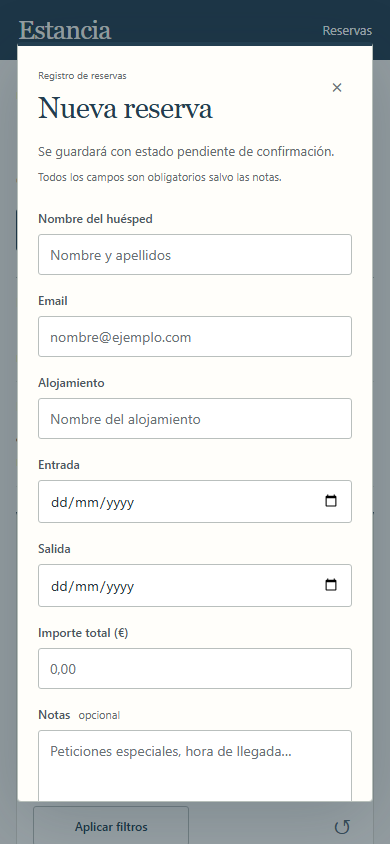
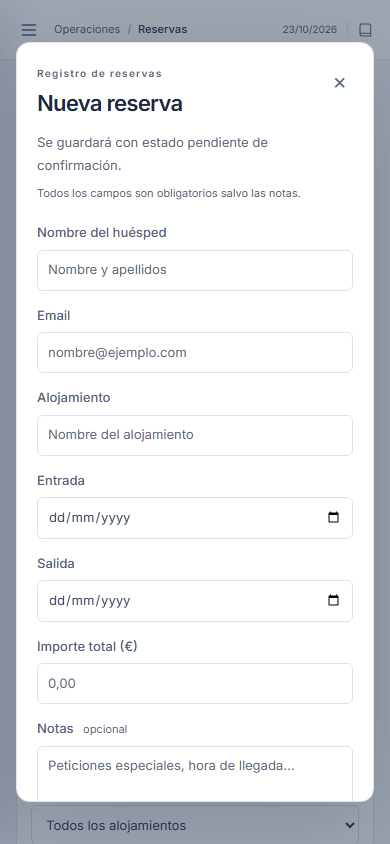
docs: document manager operations, upgrade migration and UI verification [skip ci]

diff --git a/README.md b/README.md
@@ -2,7 +2,7 @@
 
 Aplicación de reservas de alojamiento para la prueba técnica de MisterPlan. PHP nativo, MySQL/MariaDB, Twig y JavaScript vanilla. Interfaz en español, renderizado inicial en servidor y operaciones asíncronas sobre una API JSON.
 
-La interfaz sigue el criterio de un registro de recepción: resumen compacto, tabla de datos, estados discretos y acciones explícitas. Utiliza tipografías del sistema y Georgia, sin fuentes remotas ni recursos externos.
+El espacio de trabajo incluye navegación lateral, indicadores operativos, agenda, tabla con selección múltiple y una vista rápida lateral. Utiliza la fuente Inter alojada en el propio proyecto, con su licencia en `docs/fonts/`, e iconos SVG. La aplicación no solicita fuentes ni recursos a servicios externos.
 
 **Repositorio:** [guiller91/Proyecto-Dani](https://github.com/guiller91/Proyecto-Dani)
 
@@ -31,6 +31,8 @@ docker compose start
 ```
 
 No borres el volumen si necesitas conservar reservas. Cambiar las contraseñas del `.env` no cambia las de una base de datos ya inicializada.
+
+**Actualizar una instalación existente:** esta versión añade el evento `actualizada` para registrar ediciones. Ejecutar `php bin/migrate.php` con una credencial de migración que tenga permiso `ALTER`, o importar `database/migrations/002_reserva_actualizada.sql`. No reimportar el fichero inicial ni borrar el volumen. En Docker, el comando es `docker compose exec app php bin/migrate.php` si el usuario dispone de ese permiso. El migrador detecta una base ya actualizada y no modifica las reservas. La aplicación sigue necesitando solo `SELECT`, `INSERT` y `UPDATE` durante su funcionamiento.
 
 ## Arranque local con PHP, MAMP o WAMP
 
@@ -78,6 +80,13 @@ Después de importar, el usuario de ejecución solo necesita `SELECT`, `INSERT` 
 ## Qué incluye
 
 - Listado paginado con filtros combinables por estado, coincidencia de estancia y nombre del huésped.
+- Filtro por alojamiento, fechas exactas de llegada/salida y ordenación por entrada, salida, huésped o importe. Selector de tamaño de página.
+- Vista rápida lateral con datos, notas, actividad y acciones; acceso a la ficha completa.
+- Edición de datos de reservas pendientes o confirmadas, con versión e historial. Las canceladas son de solo lectura.
+- Confirmación y cancelación de hasta 50 reservas seleccionadas en una transacción: si una ha cambiado, se revierte todo el lote.
+- Exportación CSV de todas las reservas de los filtros activos, hasta 5.000 registros, con protección frente a fórmulas de hoja de cálculo.
+- Agenda semanal de entradas y salidas, navegación por semanas y selección de fecha. Incluye pendientes y confirmadas; excluye canceladas.
+- Indicadores globales de llegadas/salidas confirmadas del día, estancias confirmadas en curso, pendientes y volumen activo. Los indicadores no cambian con los filtros de la tabla; el resumen inferior sí.
 - Creación, confirmación y cancelación, con estado y versión controlados en el servidor.
 - Historial persistente y transaccional: el cambio y su evento se confirman juntos o se revierten juntos.
 - Listado y detalle renderizados con Twig, plantilla base y parciales. No se usa `|raw`.
@@ -94,6 +103,8 @@ Después de importar, el usuario de ejecución solo necesita `SELECT`, `INSERT` 
 **Estados.** Toda reserva empieza `pendiente`. Se permite pendiente → confirmada, pendiente → cancelada y confirmada → cancelada. La cancelación es final. Repetir el mismo estado con la versión actual es un no-op: no aumenta versión ni duplica historial.
 
 **Concurrencia.** El cliente envía `version` al cambiar el estado. La transacción bloquea la fila con `SELECT … FOR UPDATE`, comprueba la versión y actualiza el estado y su evento. Una vista obsoleta obtiene `409` y debe actualizarse. Dos cambios basados en la misma versión no pueden sobrescribirse silenciosamente.
+
+La misma protección se aplica a la edición. Un cambio efectivo aumenta la versión y añade un evento `actualizada` con los nombres de los campos modificados; no duplica los valores personales en el historial. Guardar los mismos datos es un no-op. Los lotes bloquean las filas en orden de ID para reducir el riesgo de deadlocks y se confirman de forma atómica. La selección se limita a la página actual y se limpia al cambiar el listado.
 
 **Fechas.** Fechas reales `AAAA-MM-DD`, años 1000–9999 y salida estrictamente posterior a entrada. Se admiten estancias pasadas. El intervalo de una estancia es `[entrada, salida)`: la fecha de salida no es una noche ocupada. Los filtros representan días inclusivos: `salida > desde` y `entrada <= hasta`. Un único límite también es válido. No hay inventario de habitaciones ni comprobación de disponibilidad: el alojamiento es un nombre, no un recurso reservado de forma exclusiva.
 
@@ -118,8 +129,15 @@ Contrato completo y ejemplos en [docs/API.md](docs/API.md).
 | GET | `/api/reservas/{id}` | Reserva con historial |
 | POST | `/api/reservas` | Crear; devuelve `201` y `Location` |
 | PATCH | `/api/reservas/{id}/estado` | Confirmar o cancelar con control de versión |
+| PATCH | `/api/reservas/{id}` | Editar datos con versión e historial |
+| POST | `/api/reservas/lote` | Confirmar/cancelar una selección de hasta 50 reservas |
+| GET | `/api/reservas/exportar` | CSV de los filtros activos, hasta 5.000 reservas |
+| GET | `/api/overview` | Indicadores globales del día en la zona configurada |
+| GET | `/api/agenda` | Llegadas/salidas en un intervalo de hasta 31 días |
 
 Vistas HTML: `/` (también `/reservas`) y `/reservas/{id}`. Los filtros se reflejan en la URL y pueden compartirse. Sin JavaScript, el listado, el filtrado por envío del formulario y el detalle siguen disponibles; las escrituras requieren JS.
+
+La agenda representa movimientos previstos por las fechas de las reservas; no registra check-in/check-out físico ni disponibilidad de habitaciones. Su respuesta se limita a 500 movimientos y avisa explícitamente si el intervalo supera ese límite. Guía de uso en [docs/MANAGEMENT.md](docs/MANAGEMENT.md).
 
 ## Pruebas y calidad
 

diff --git a/docs/API.md b/docs/API.md
@@ -25,6 +25,10 @@ Todos los parámetros son opcionales:
 | `q` | Nombre del huésped, coincidencia parcial literal, máximo 120 caracteres |
 | `page` | Entero de 1 a 100000; por defecto 1, se ajusta al último disponible |
 | `per_page` | Entero de 1 a 100; por defecto 10 |
+| `alojamiento` | Nombre exacto del alojamiento, hasta 160 caracteres |
+| `entrada` | Fecha exacta de entrada `AAAA-MM-DD` |
+| `salida` | Fecha exacta de salida `AAAA-MM-DD` |
+| `orden` | `recientes` (defecto), `entrada`, `salida`, `importe_desc`, `huesped` |
 
 Fechas reales `AAAA-MM-DD`, años 1000–9999. `desde <= hasta`. Orden por creación DESC e ID DESC.
 
@@ -120,7 +124,45 @@ Enviar la versión recibida en el último listado/detalle. Es un entero JSON obl
 | `409` | Versión obsoleta o transición incompatible |
 | `413` | JSON mayor de 16 KB |
 | `415` | Content-Type distinto de application/json |
+| `422` | Exportación superior a 5.000 reservas; acotar los filtros |
 | `500` | Fallo interno durante una operación |
 | `503` | Aplicación o conexión no disponible al arrancar |
 
-GET admite HEAD, sin cuerpo en la respuesta HTTP. No se ofrecen DELETE ni edición general. En errores de red tras una escritura, consultar la reserva/listado antes de repetir: no hay aún claves de idempotencia para creación.
+GET admite HEAD, sin cuerpo en la respuesta HTTP. No se ofrece DELETE. En errores de red tras una escritura, consultar la reserva/listado antes de repetir: no hay aún claves de idempotencia para creación.
+
+## Edición con historial
+
+`PATCH /api/reservas/42`: enviar todos los campos de creación y `version` como entero. Requiere cookie, token CSRF y JSON. Devuelve `200` y el detalle actualizado. No permite cambiar el estado por esta ruta. Una reserva cancelada o una versión obsoleta devuelve `409`. Los datos inválidos devuelven `400` con errores por campo.
+
+Si los datos cambian, aumenta la versión y se añade el evento `actualizada`. La descripción enumera los campos modificados; no copia valores personales anteriores. Guardar los mismos datos conserva versión e historial. La edición y su evento son atómicos.
+
+## Operaciones en lote
+
+`POST /api/reservas/lote`, con sesión y CSRF:
+
+```json
+{
+  "estado": "confirmada",
+  "reservas": [{"id": 42, "version": 1}, {"id": 43, "version": 2}]
+}
+```
+
+Entre 1 y 50 IDs únicos, enteros positivos, con versiones válidas. Destino `confirmada` o `cancelada`. Se bloquean las filas en orden de ID y se aplica una sola transacción. Si una falta, cambia de versión o no permite la transición, falla todo el lote (`404` o `409`). Un payload inválido devuelve `400` sin escrituras.
+
+Respuesta `200`: `{"data":[…detalles actualizados],"updated":2}`. `updated` cuenta las reservas procesadas, incluidos los no-ops cuyo estado ya coincidía con la versión actual. Cada cambio efectivo tiene su propio evento.
+
+## Exportación CSV
+
+`GET /api/reservas/exportar` admite los mismos filtros y orden que el listado. La paginación se ignora: exporta todas las coincidencias, hasta 5.000. Si hay más, devuelve `422` en JSON; nunca trunca silenciosamente. Respuesta correcta: `text/csv; charset=utf-8`, descarga `reservas.csv`, BOM UTF-8, separador `;`, comillas estándar y saltos CRLF.
+
+Los textos que comienzan por `=`, `+`, `-` o `@` (también tras espacios) reciben un apóstrofo para evitar que Excel/LibreOffice interprete fórmulas. El CSV contiene información de huéspedes: guardarlo en un destino adecuado.
+
+## Panel operativo
+
+`GET /api/overview` devuelve `data` con `total`, `pendientes`, `llegadas`, `salidas`, `alojados`, `importe_activo`, `alojamientos`; además `today` (`AAAA-MM-DD`) y `accommodations` (nombres de alojamiento). El día se calcula en `APP_TIMEZONE`. Llegadas y salidas cuentan solo confirmadas. `alojados` son confirmadas con entrada ≤ hoy < salida: es una previsión según calendario, no un registro de presencia física. Pendientes y volumen activo abarcan todas las fechas; el volumen excluye canceladas.
+
+## Agenda de movimientos
+
+`GET /api/agenda?desde=2028-06-10&hasta=2028-06-16`. Intervalo inclusivo de hasta 31 días; por defecto hoy y seis días posteriores. Excluye canceladas e incluye pendientes y confirmadas. Cada elemento de `data` incluye los campos de la reserva, `movimiento` (`entrada` o `salida`) y `dia`. Una reserva puede aparecer dos veces si ambos movimientos caen dentro del intervalo. Orden: día, tipo de movimiento e ID.
+
+`meta` contiene `total`, `truncated`, `desde`, `hasta`. Se devuelven como máximo 500 movimientos y se indica `truncated: true` si existen más. Un intervalo inválido devuelve `400`.

diff --git a/docs/MANAGEMENT.md b/docs/MANAGEMENT.md
@@ -1,0 +1,36 @@
+# Gestión de reservas
+
+## Espacio de trabajo
+
+El menú lateral permite alternar entre **Reservas** y **Agenda de estancias**, y abrir consultas de llegadas confirmadas de hoy, salidas confirmadas de hoy y reservas pendientes. En móvil se abre desde el botón de navegación de la cabecera.
+
+Los indicadores superiores muestran la operativa global. La tabla tiene sus propios filtros y un resumen inferior correspondiente a la selección; los dos ámbitos se identifican por separado.
+
+## Encontrar y revisar
+
+- Filtrar por huésped, alojamiento, estado o intervalo de estancia. Los accesos rápidos añaden una fecha exacta de llegada o salida.
+- Usar las pestañas de estado, el orden y el selector de resultados por página. Los filtros aparecen en la URL y pueden compartirse.
+- Quitar un filtro desde su etiqueta o limpiar todos con el botón de reinicio.
+- Pulsar **Abrir** en una fila para consultar la vista rápida. Incluye contacto, fechas, importe, notas y actividad. El enlace de ficha completa abre una página independiente.
+
+## Editar
+
+Desde la vista rápida o la ficha, pulsar **Editar reserva**. Se pueden modificar los datos del huésped, alojamiento, fechas, importe y notas. Al guardar se comprueba la versión y se añade un evento con los campos modificados. Una reserva cancelada no admite edición.
+
+Si otro cliente modifica la reserva mientras el formulario está abierto, se informa del conflicto y no se sobrescriben sus cambios. Cerrar el formulario, actualizar y revisar antes de repetir.
+
+## Trabajar con varias reservas
+
+Las casillas seleccionan reservas de la página visible. **Seleccionar todas** incluye como máximo 50 reservas editables. Las canceladas no son seleccionables. La barra de selección permite confirmar o cancelar; ambas operaciones piden confirmación.
+
+El lote se aplica completo o se revierte completo si una reserva presenta conflicto. No se borra ninguna reserva. Al cambiar de página o filtros se limpia la selección para evitar aplicar acciones sobre filas que ya no se ven.
+
+## Exportar
+
+**Exportar CSV** descarga todas las reservas coincidentes con los filtros activos, aunque estén repartidas entre varias páginas. Hasta 5.000 registros por descarga. Si se supera ese límite, acotar los filtros. El archivo abre en hojas de cálculo y neutraliza fórmulas contenidas en textos de huéspedes.
+
+## Agenda
+
+La agenda muestra una semana de llegadas y salidas previstas. Elegir una fecha de inicio o avanzar/retroceder semanas. Las canceladas se excluyen; las pendientes se identifican por su estado. Pulsar el nombre de un huésped abre la vista rápida.
+
+La agenda no representa inventario, sobreventa ni check-in físico. Si se supera el límite de 500 movimientos de una consulta, aparece un aviso; el listado de reservas permite acotar las consultas y exportarlas.

diff --git a/docs/VERIFICATION.md b/docs/VERIFICATION.md
@@ -9,18 +9,18 @@ PHP **8.5.12**, MariaDB **11.4.5**, Windows. Base de datos de la aplicación y b
 | Comprobación | Resultado |
 | --- | --- |
 | Importación de `database/database.sql` | 16 reservas y sus eventos importados correctamente |
-| Sintaxis PHP | 25 ficheros correctos |
-| PHPUnit | 60 pruebas, 151 aserciones, sin fallos ni omisiones |
+| Sintaxis PHP | 29 ficheros correctos |
+| PHPUnit | 71 pruebas, 197 aserciones, sin fallos ni omisiones |
 | PHPStan | Nivel 8, sin errores ni baseline |
 | PHP CS Fixer | PSR-12, sin cambios pendientes |
-| Playwright | Flujos comprobados en escritorio y móvil; 7 escenarios por dispositivo |
-| axe | Sin infracciones detectadas de las etiquetas WCAG 2 A/AA y 2.1 AA en listado, formulario y detalle |
+| Playwright | Flujos comprobados en escritorio y móvil; 13 escenarios por dispositivo |
+| axe | Sin infracciones detectadas de las etiquetas WCAG 2 A/AA y 2.1 AA en listado, formulario, detalle, vista rápida, agenda y confirmación de lote |
 | Prettier | Sin cambios pendientes |
 | Composer audit | Sin avisos de vulnerabilidad en las dependencias instaladas |
 
 Se verificaron creación y estado inicial, validación de tipos/fechas/email/dinero, límites, rechazo de campos inesperados, filtros combinados, coincidencia de estancias, búsqueda literal de `%`/`_`, paginación, importes exactos y respuesta a IDs inexistentes.
 
-Tras la revisión de interfaz se repitieron los flujos de navegador y los controles de accesibilidad. El listado utiliza un resumen con separadores y una tabla sin avatares decorativos; el detalle y los formularios comparten la nueva tipografía y los controles. Una prueba adicional comprueba que el número de noches no varía por los cambios de horario de primavera y otoño.
+Tras ampliar el espacio de gestión se repitieron los flujos de navegador y los controles de accesibilidad. Se comprobaron edición desde la vista rápida, historial actualizado, confirmación/cancelación de una selección, ordenación y filtro por alojamiento, descarga real del CSV a través de varias páginas y exclusión de canceladas en la agenda. Las pruebas de integración comprueban también el rollback completo de un lote con una versión obsoleta, y el de una edición cuyo evento falla. La prueba de exportación verifica comillas, Unicode, saltos de línea y neutralización de fórmulas. La prueba de noches cubre los cambios de horario de primavera y otoño.
 
 Las pruebas de integración introducen un fallo real mediante un trigger en la base de pruebas: tanto la creación como el cambio de estado se revierten si no puede guardarse el evento. También comprueban rechazo de una versión obsoleta, ausencia de eventos duplicados y sanitización de errores de base de datos.
 

diff --git a/docs/DEPLOYMENT.md b/docs/DEPLOYMENT.md
@@ -14,6 +14,8 @@ El destino debe ejecutar PHP 8.3+ y proporcionar MySQL/MariaDB o conectividad a 
 
 No publicar `tests/`, `.git/`, `.tools/`, `.env.test`, informes de pruebas ni credenciales administrativas.
 
+Al actualizar desde la primera versión, aplicar `database/migrations/002_reserva_actualizada.sql` o ejecutar `php bin/migrate.php` con credenciales de migración. Añade el tipo de evento de edición y conserva las reservas existentes. No reimportar el SQL inicial sobre una base en uso. Incluir `public/assets/inter-latin.woff2` en la entrega: la fuente se sirve desde el propio hosting.
+
 ## Contenedor en VPS o plataforma Docker
 
 El `Dockerfile` incluye Apache, PHP, extensiones y dependencias de producción. `compose.yaml` añade MariaDB persistente y la importación inicial. El origen local por defecto es `127.0.0.1:8080`.
